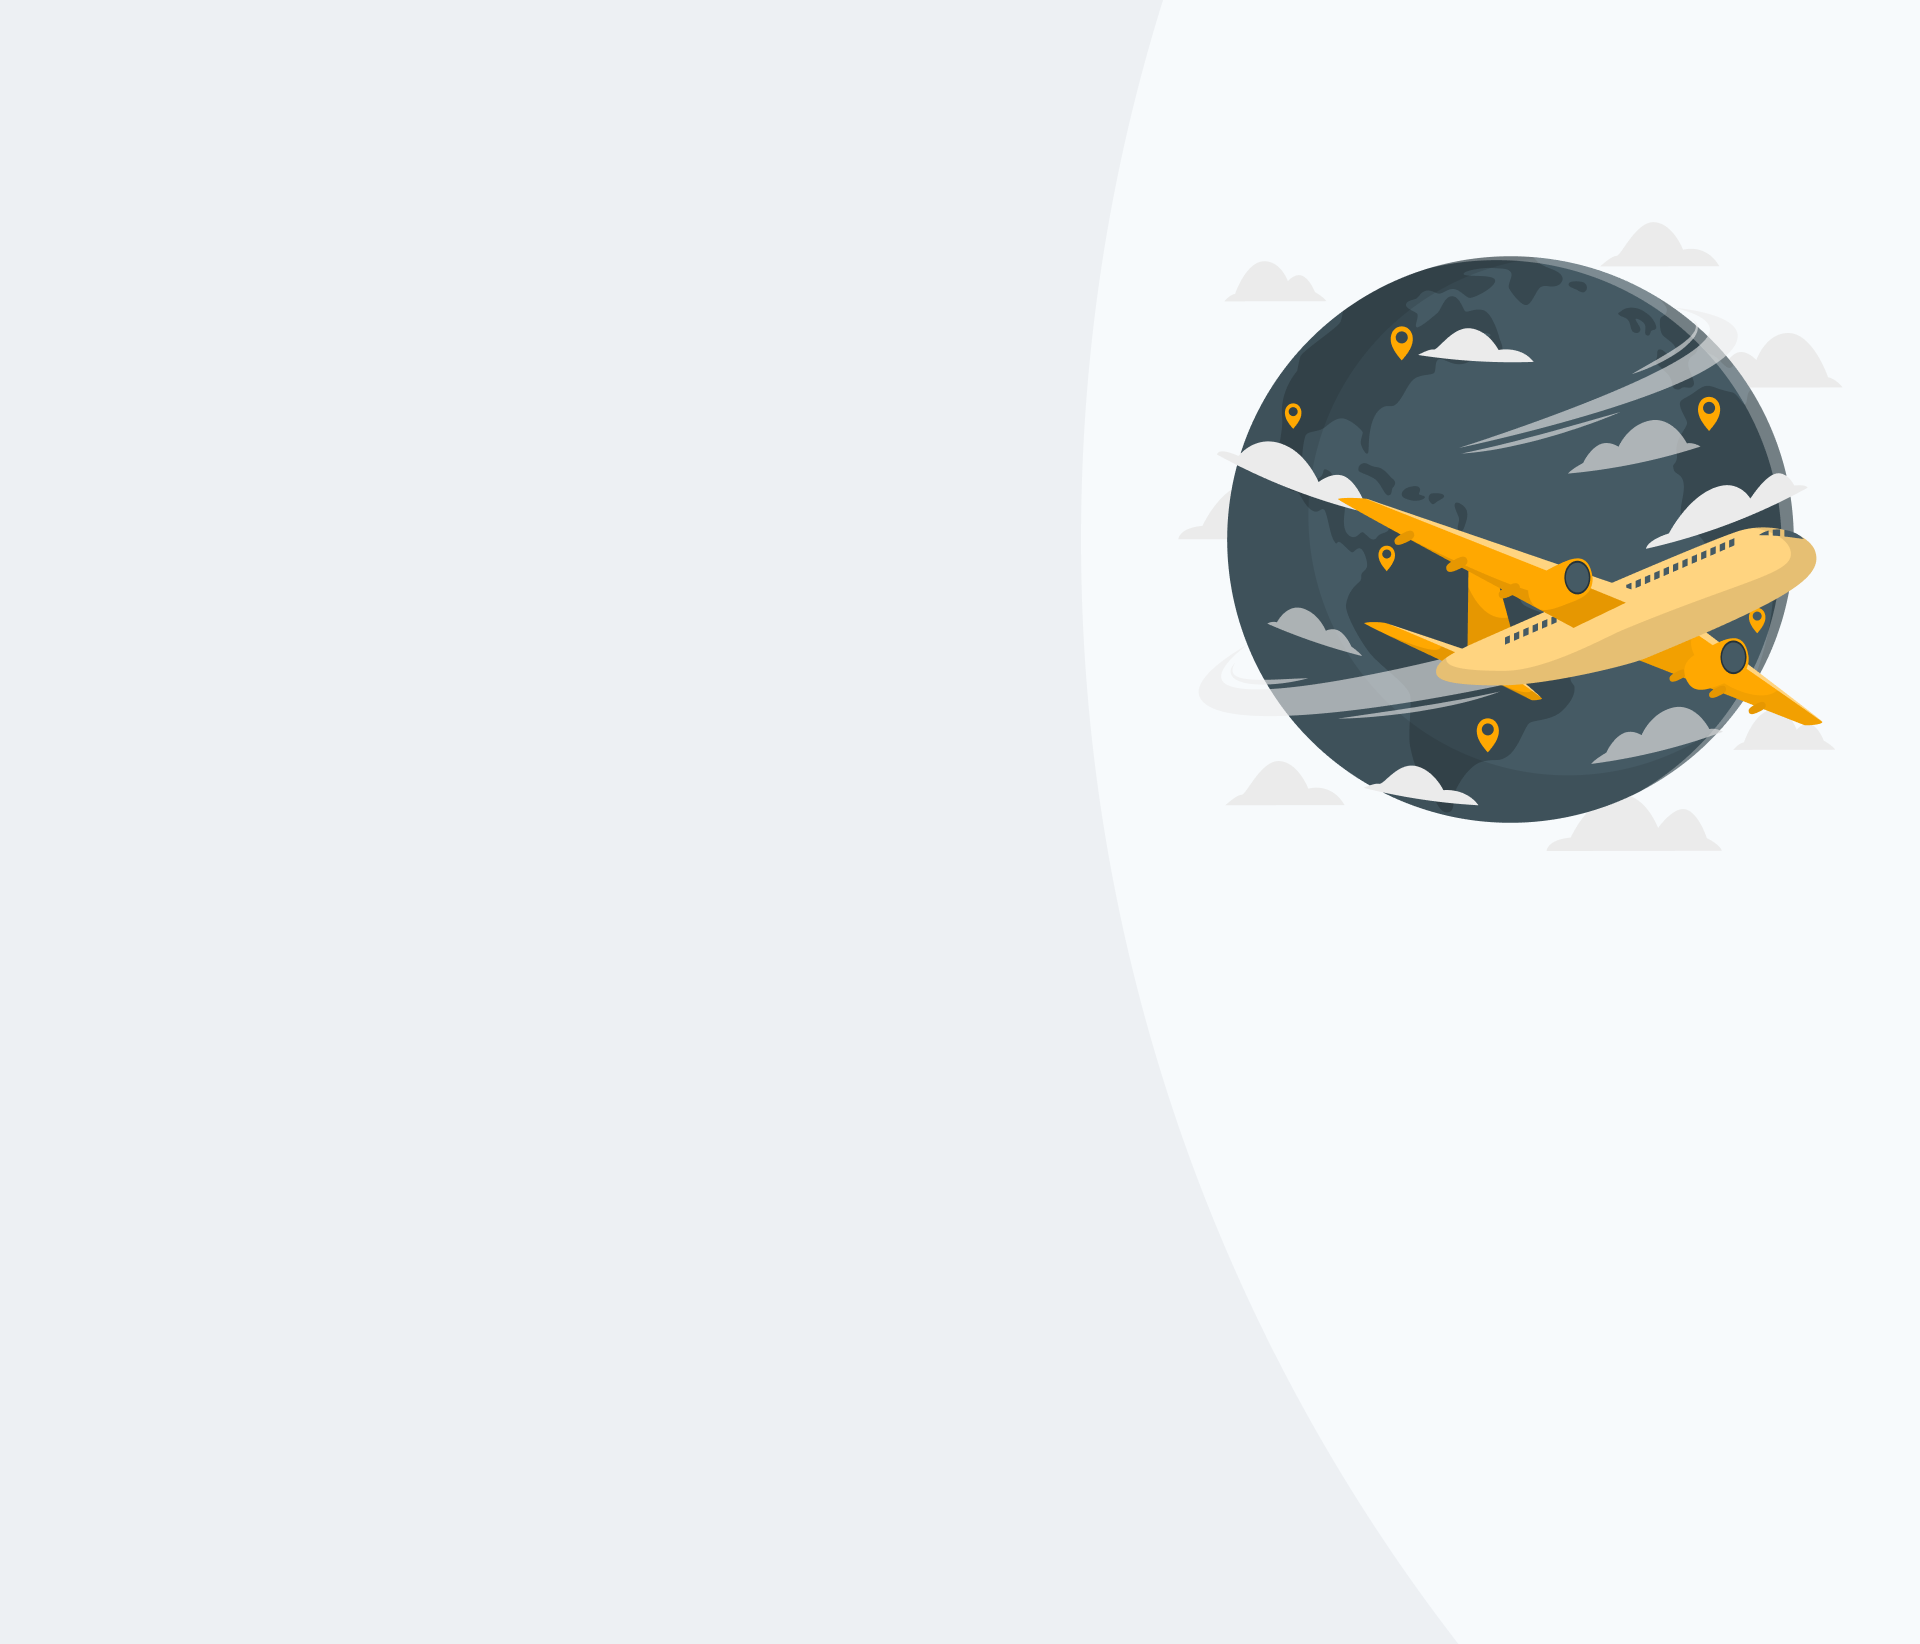
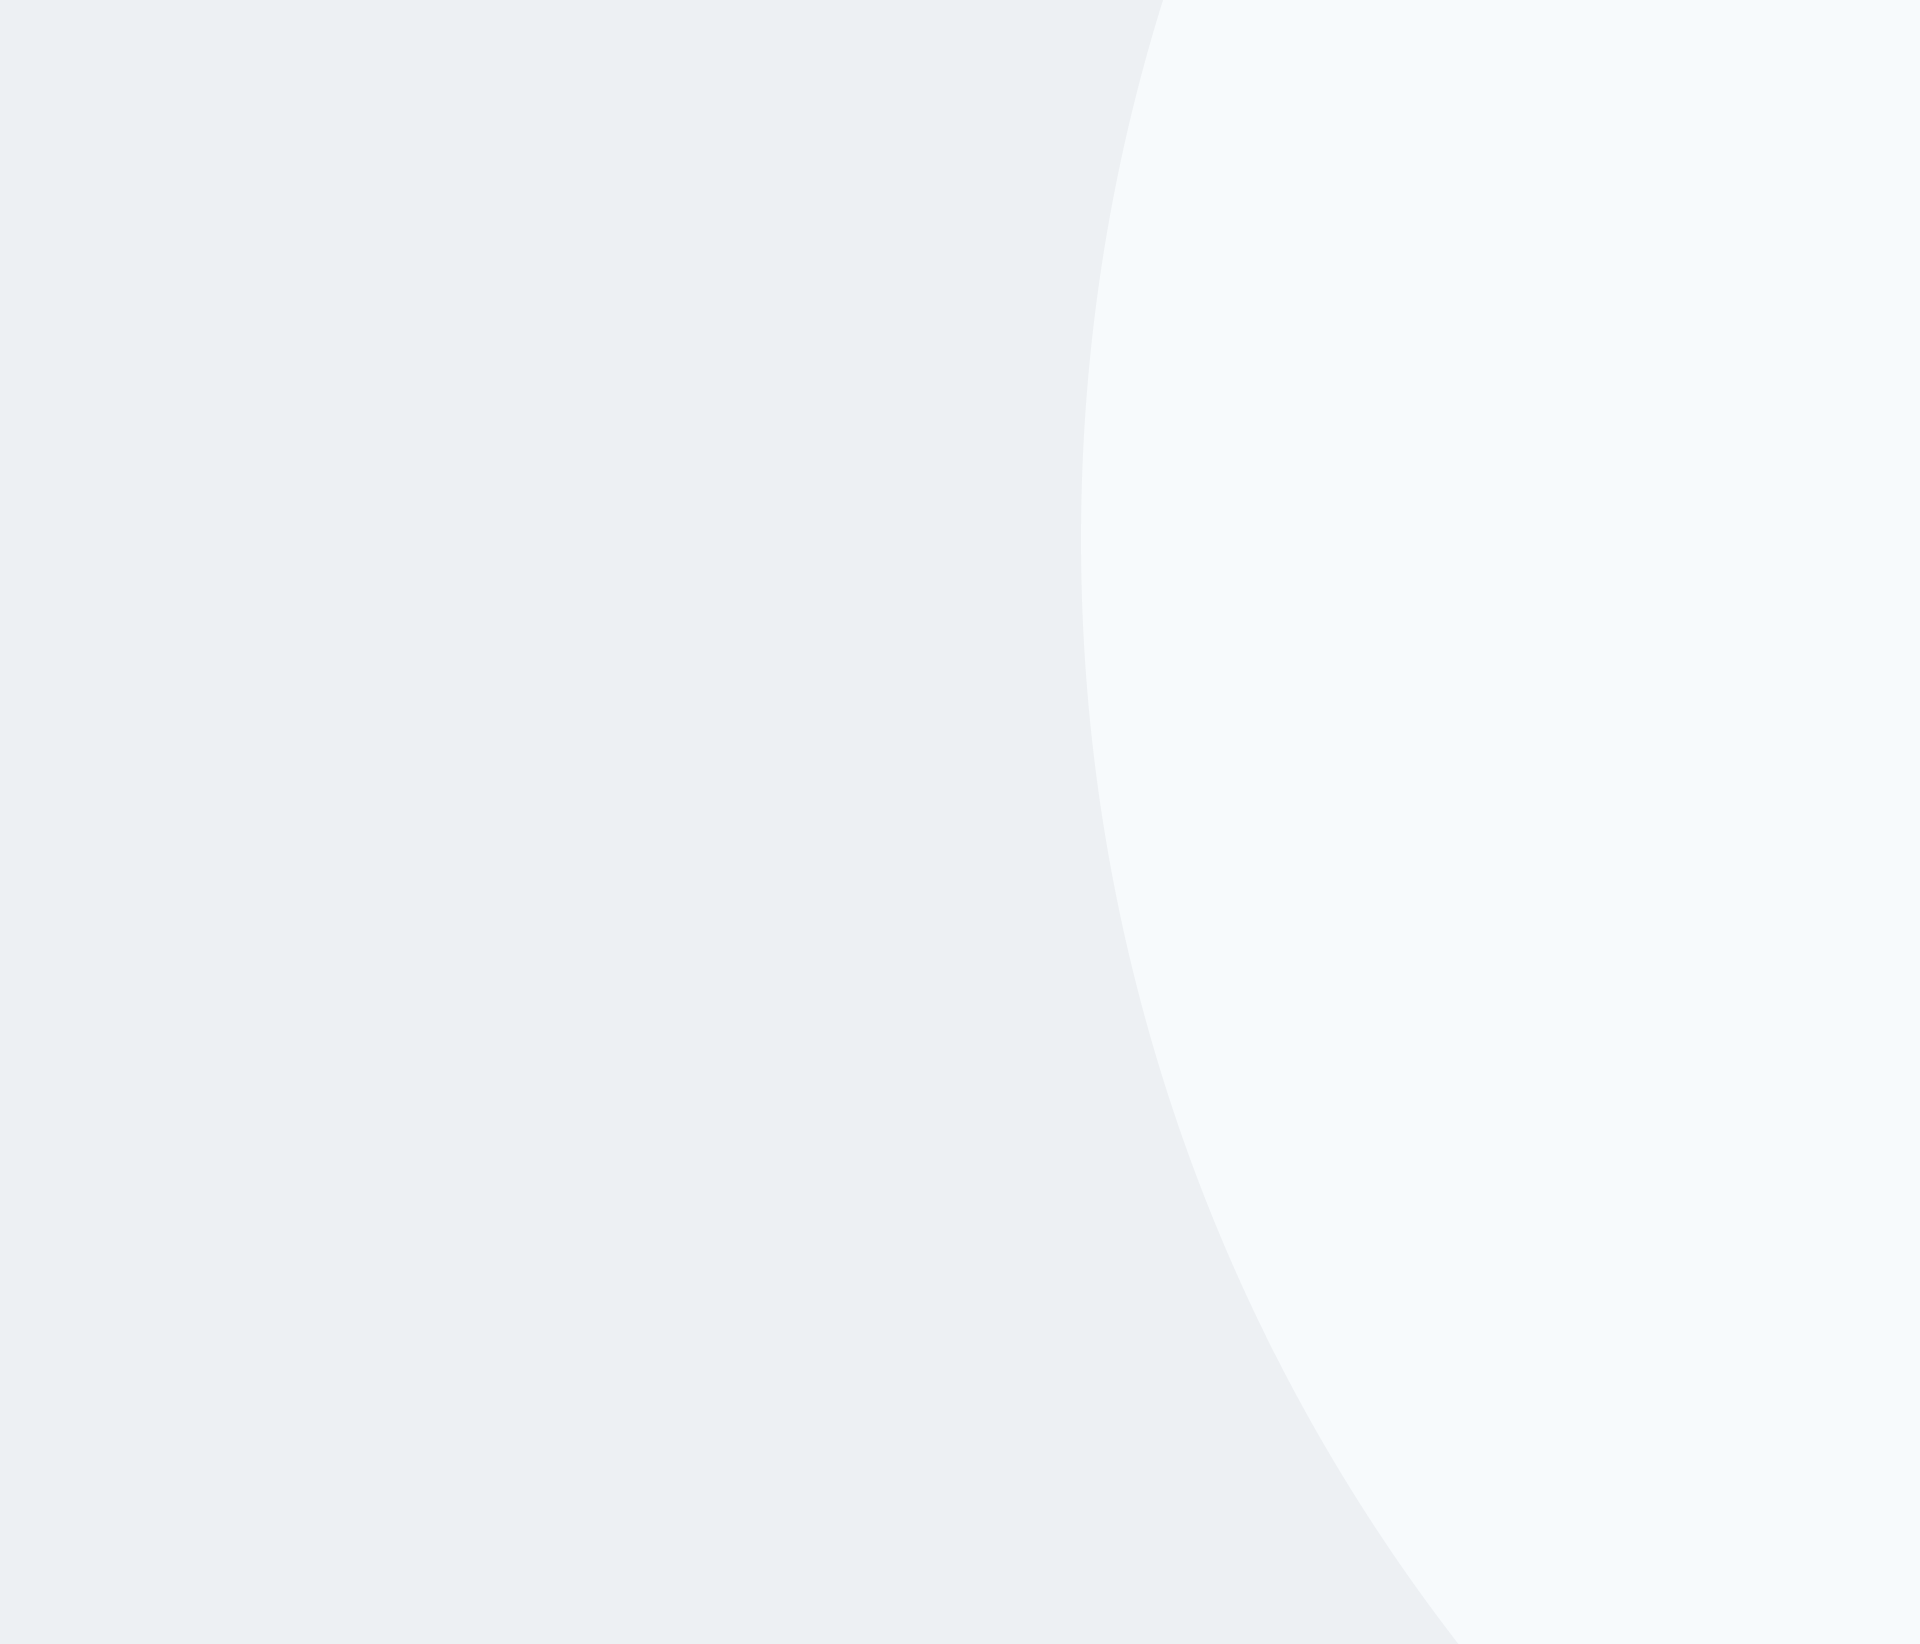
finished login page

Changed region(s): [[0.625, 0.1551, 0.9688, 0.5274]]

diff --git a/login.html b/login.html
@@ -167,6 +167,7 @@
         <section class="login-section">
             <div class="container">
                 <div class="row">
+
                     <div class="col-lg-6 col-xl-5">
                         <div class="login-box">
                             <div class="login-box-header">
@@ -229,21 +230,27 @@
                                         <div class="input-box2">
                                             <label for="password" class="input-label">Password</label>
                                             <input type="password" name="password" id="new_password" class="input-field" placeholder="Write Your Password">
+                                            <p><a href="#" class="forget-link">Forget Password</a></p>
                                         </div>
                                     </div>
                                 
                                     
                                     <div class="col-12 text-center">
                                        <div class="button-wrapper">
-                                        <button class="save-btn">Sign UP</button>
+                                        <button class="save-btn">Log In </button>
                                        </div>
                                     </div>
                                     <div class="col-12 text-center">
-                                        <p class="already-text">Dont Have an account  ? <a href="signup.html">Log In</a> </p>
+                                        <p class="already-text">Dont Have an account  ? <a href="signup.html">Sign UP</a> </p>
                                     </div>
                                 </div>
                             </div>
                         </div>
+                    </div>
+                    <div class="col-lg-6 col-xl-7 d-none d-lg-flex align-items-center justify-content-end">
+                        <figure class="aroplane-thumb">
+                            <img src="assets/images/header/aroplan.png" alt="">
+                        </figure>
                     </div>
                 </div>
             </div>

diff --git a/assets/css/style.css b/assets/css/style.css
@@ -2713,6 +2713,23 @@ button:focus,
   gap: 1.25rem;
   max-width: 35rem;
 }
+.input-box2 .forget-link {
+  color: #CBD5E0;
+  font-family: "Lexend", sans-serif;
+  font-size: 0.875rem;
+  font-weight: 500;
+  font-style: normal;
+  line-height: 1;
+  -webkit-transition: color 250ms ease-in-out;
+  -moz-transition: color 250ms ease-in-out;
+  -ms-transition: color 250ms ease-in-out;
+  -o-transition: color 250ms ease-in-out;
+  transition: color 250ms ease-in-out;
+}
+.input-box2 .forget-link:not([disabled]):hover {
+  color: #718096;
+  text-decoration: underline;
+}
 
 .coupon-box {
   height: 2.875rem;
@@ -5010,11 +5027,11 @@ button:focus,
 }
 
 .login-bg {
-  background: transparent;
+  background: #EDF0F3;
 }
 @media screen and (min-width: 62rem) {
   .login-bg {
-    background: url(https://raw.githubusercontent.com/qtecsolution/gosahabi-html/master/assets/images/header/signupbg.png);
+    background: url(../../assets/images/header/signupbg.png);
     background-position: center center;
     background-repeat: no-repeat;
     background-size: 100% 100%;
@@ -5163,6 +5180,17 @@ button:focus,
 }
 .login-section .login-box-body .already-text a:not([disabled]):hover {
   text-decoration: underline;
+}
+.login-section .aroplane-thumb {
+  width: 25rem;
+  height: 25rem;
+  overflow: hidden;
+  margin-right: -6.25rem;
+}
+.login-section .aroplane-thumb img {
+  width: 100%;
+  height: 100%;
+  object-fit: cover;
 }
 
 .printshop-container {

diff --git a/scss/pages/_signup.scss b/scss/pages/_signup.scss
@@ -4,13 +4,13 @@
 
 
 .login-bg {
-    background: transparent;
+    background: $bodybg;
   
     @include breakpoint(tab992){
-        background: url(https://raw.githubusercontent.com/qtecsolution/gosahabi-html/master/assets/images/header/signupbg.png);
+        background:url(../../assets/images/header/signupbg.png) ;
         background-position: center center;
-        background-repeat: no-repeat;
-        background-size:  100% 100% ;
+        background-repeat:no-repeat;
+        background-size: 100% 100%;
     }
 }
 
@@ -103,6 +103,17 @@
                     }
                 }
             }
+        }
+    }
+
+    .aroplane-thumb {
+
+        @include square(400);
+        overflow: hidden;
+        margin-right: size(-100);
+        img {
+            @include wh100;
+            object-fit: cover;;
         }
     }
 }

diff --git a/signup.html b/signup.html
@@ -167,6 +167,8 @@
         <section class="login-section">
             <div class="container">
                 <div class="row">
+
+
                     <div class="col-lg-6 col-xl-5">
                         <div class="login-box">
                             <div class="login-box-header">
@@ -254,6 +256,12 @@
                                 </div>
                             </div>
                         </div>
+                    </div>
+
+                    <div class="col-lg-6 col-xl-7 d-none d-lg-flex align-items-center justify-content-end">
+                        <figure class="aroplane-thumb">
+                            <img src="assets/images/header/aroplan.png" alt="">
+                        </figure>
                     </div>
                 </div>
             </div>

diff --git a/scss/components/input/_input.scss b/scss/components/input/_input.scss
@@ -236,6 +236,16 @@
         max-width: size(560);
 
     }
+
+    .forget-link {
+        color: $gray-400;
+        @include font($secondaryFont,14,medium,normal,14);
+        @include transitionscolor;
+        @include hover {
+            color: $gray-600;
+            text-decoration: underline;
+        }
+    }
 }
 
 .coupon-box {
